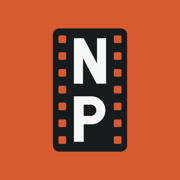
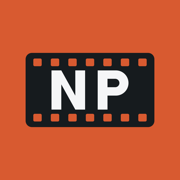
Aplikace z verze 19ea15c

diff --git a/sw.js b/sw.js
@@ -1,1 +1,1 @@
-if(!self.define){let e,s={};const i=(i,n)=>(i=new URL(i+".js",n).href,s[i]||new Promise(s=>{if("document"in self){const e=document.createElement("script");e.src=i,e.onload=s,document.head.appendChild(e)}else e=i,importScripts(i),s()}).then(()=>{let e=s[i];if(!e)throw new Error(`Module ${i} didn’t register its module`);return e}));self.define=(n,r)=>{const o=e||("document"in self?document.currentScript.src:"")||location.href;if(s[o])return;let d={};const l=e=>i(e,o),c={module:{uri:o},exports:d,require:l};s[o]=Promise.all(n.map(e=>c[e]||l(e))).then(e=>(r(...e),d))}}define(["./workbox-2fbc6a65"],function(e){"use strict";self.addEventListener("message",e=>{e.data&&"SKIP_WAITING"===e.data.type&&self.skipWaiting()}),e.precacheAndRoute([{url:"manifest.webmanifest",revision:"d3a8f19fe6b5248c02db16b1b7668e6d"},{url:"index.html",revision:"deab682dda205cc7f18e2a5f308aed03"},{url:"icon.svg",revision:"a51b026271c6b59c49d6bd08168a0906"},{url:"icon-maskable-512.png",revision:"83be490d3e2b0cb8c8e57f82f3f933d5"},{url:"icon-512.png",revision:"83be490d3e2b0cb8c8e57f82f3f933d5"},{url:"icon-192.png",revision:"edddda62f1000e55ad089112b8bcced0"},{url:"icon-180.png",revision:"e3830493a49929b3d753ecf3d69f3a04"},{url:"assets/workbox-window.prod.es5-Bd17z0YL.js",revision:null},{url:"assets/screenplay-zeVOaQtc.js",revision:null},{url:"assets/pdfText-R1ubzHe-.js",revision:null},{url:"assets/pdf.worker.min-CIqJB0yW.mjs",revision:null},{url:"assets/pdf.worker.min-BPK52Uye.js",revision:null},{url:"assets/pdf-YwugTw7Y.js",revision:null},{url:"assets/index-oyb7eUhy.css",revision:null},{url:"assets/index-DGqIeBkX.js",revision:null},{url:"icon-180.png",revision:"e3830493a49929b3d753ecf3d69f3a04"},{url:"icon-192.png",revision:"edddda62f1000e55ad089112b8bcced0"},{url:"icon-512.png",revision:"83be490d3e2b0cb8c8e57f82f3f933d5"},{url:"icon-maskable-512.png",revision:"83be490d3e2b0cb8c8e57f82f3f933d5"},{url:"icon.svg",revision:"a51b026271c6b59c49d6bd08168a0906"},{url:"manifest.webmanifest",revision:"d3a8f19fe6b5248c02db16b1b7668e6d"}],{}),e.cleanupOutdatedCaches(),e.registerRoute(new e.NavigationRoute(e.createHandlerBoundToURL("index.html")))});
+if(!self.define){let e,s={};const i=(i,n)=>(i=new URL(i+".js",n).href,s[i]||new Promise(s=>{if("document"in self){const e=document.createElement("script");e.src=i,e.onload=s,document.head.appendChild(e)}else e=i,importScripts(i),s()}).then(()=>{let e=s[i];if(!e)throw new Error(`Module ${i} didn’t register its module`);return e}));self.define=(n,r)=>{const o=e||("document"in self?document.currentScript.src:"")||location.href;if(s[o])return;let l={};const a=e=>i(e,o),f={module:{uri:o},exports:l,require:a};s[o]=Promise.all(n.map(e=>f[e]||a(e))).then(e=>(r(...e),l))}}define(["./workbox-2fbc6a65"],function(e){"use strict";self.addEventListener("message",e=>{e.data&&"SKIP_WAITING"===e.data.type&&self.skipWaiting()}),e.precacheAndRoute([{url:"manifest.webmanifest",revision:"d3a8f19fe6b5248c02db16b1b7668e6d"},{url:"index.html",revision:"deab682dda205cc7f18e2a5f308aed03"},{url:"icon.svg",revision:"ca3663c810bcb96aa5af7eb2cd0760f0"},{url:"icon-maskable-512.png",revision:"f394af55559e09b51a5462055bacfb52"},{url:"icon-512.png",revision:"f394af55559e09b51a5462055bacfb52"},{url:"icon-192.png",revision:"0782bc5bb28296ce45e22f80379a10ee"},{url:"icon-180.png",revision:"a9a33b4bd01f34fef9c78e0f83332c77"},{url:"assets/workbox-window.prod.es5-Bd17z0YL.js",revision:null},{url:"assets/screenplay-zeVOaQtc.js",revision:null},{url:"assets/pdfText-R1ubzHe-.js",revision:null},{url:"assets/pdf.worker.min-CIqJB0yW.mjs",revision:null},{url:"assets/pdf.worker.min-BPK52Uye.js",revision:null},{url:"assets/pdf-YwugTw7Y.js",revision:null},{url:"assets/index-oyb7eUhy.css",revision:null},{url:"assets/index-DGqIeBkX.js",revision:null},{url:"icon-180.png",revision:"a9a33b4bd01f34fef9c78e0f83332c77"},{url:"icon-192.png",revision:"0782bc5bb28296ce45e22f80379a10ee"},{url:"icon-512.png",revision:"f394af55559e09b51a5462055bacfb52"},{url:"icon-maskable-512.png",revision:"f394af55559e09b51a5462055bacfb52"},{url:"icon.svg",revision:"ca3663c810bcb96aa5af7eb2cd0760f0"},{url:"manifest.webmanifest",revision:"d3a8f19fe6b5248c02db16b1b7668e6d"}],{}),e.cleanupOutdatedCaches(),e.registerRoute(new e.NavigationRoute(e.createHandlerBoundToURL("index.html")))});
